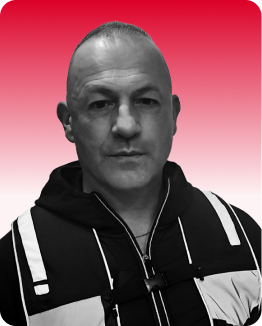
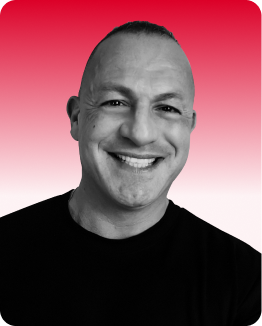
update images, add partners and

diff --git a/src/pages/Landing/Landing.js b/src/pages/Landing/Landing.js
@@ -3,6 +3,8 @@ import Palette from '../../theme/palette';
 
 import { LAUNCH_DATE } from '../../config/AppConfig';
 import jacketRedBack from '../../assets/images/jacket-red-back.png';
+import schoeller from '../../assets/images/partners/schoeller.png';
+import systronic from '../../assets/images/partners/systronic.png';
 import trailer from '../../assets/videos/trailer.mp4';
 import teaser from '../../assets/videos/teaser.mp4';
 import subtractShape from '../../assets/images/subtract.png';
@@ -199,6 +201,22 @@ function WhatIsSection() {
           reverse
         />
         <EmptySpace under='h2' />
+        <Box
+          sx={{
+            display: 'flex',
+            flexDirection: 'row',
+            justifyContent: 'center',
+            width: '100%',
+            gap: { xs: 2, sm: 10 },
+          }}
+        >
+          <img src={schoeller} style={{ maxWidth: '30%' }} alt='schoeller' />
+          <Typography color={STATE_GREY} textAlign='center'>
+            X
+          </Typography>
+          <img src={systronic} style={{ maxWidth: '50%' }} alt='systronic' />
+        </Box>
+        <EmptySpace under='h2' />
         <Typography color={STATE_GREY} textAlign='center'>
           The Smart Jacket is the culmination of over 3 years of Swiss research
           and engineering. We are dedicated to offering our customers
@@ -253,15 +271,15 @@ function SocialSection() {
           }}
         >
           <IdCard src='fabrice.png' name='Fabrice' role='Founder' />
-          <IdCard src='lucas.png' name='Lucas' role='Electronic Engineer' />
+          <IdCard src='alena.png' name='Alena' role='Sewing queen' />
           <IdCard src='mateo.png' name='Mateo' role='Lead Developer' />
+          <IdCard src='lucas.png' name='Lucas' role='Electronic Engineer' />
           <IdCard src='maxime.png' name='Maxime' role='Lead Brand Designer' />
           <IdCard
             src='jean-baptiste.png'
             name='Jean-Baptiste'
             role='Videographer'
           />
-          <IdCard src='alena.png' name='Alena' role='Sewing queen' />
           <IdCard src='sam.png' name='Sam' role='Digital Media Spécialist' />
         </Box>
         <EmptySpace />

diff --git a/src/components/Footer/Footer.js b/src/components/Footer/Footer.js
@@ -42,7 +42,7 @@ function Footer() {
               gap: 5,
             }}
           >
-            <Typography variant='subtitle2'>©IGLOW® 2023</Typography>
+            <Typography variant='subtitle2'>©IGLOW® 2024</Typography>
             <Typography
               variant='subtitle2'
               component={HashLink}
